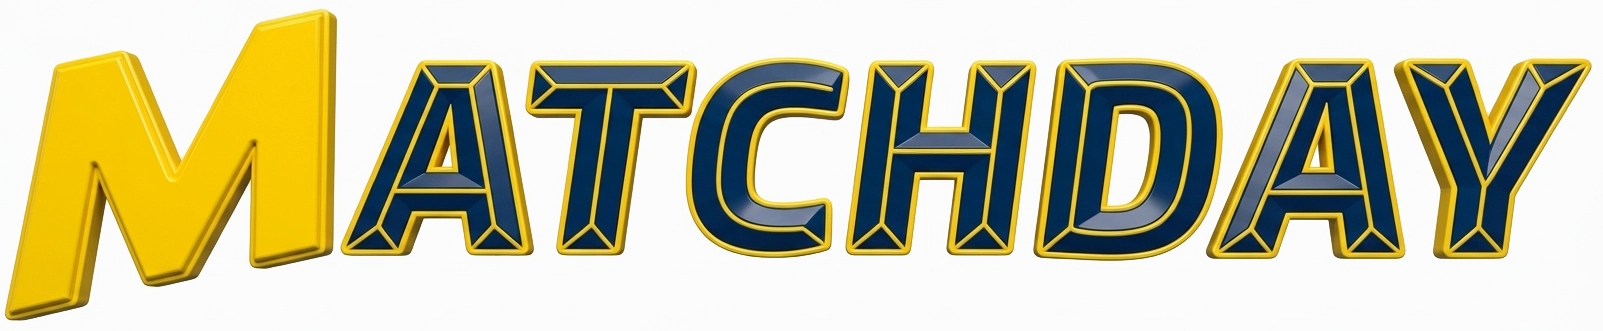
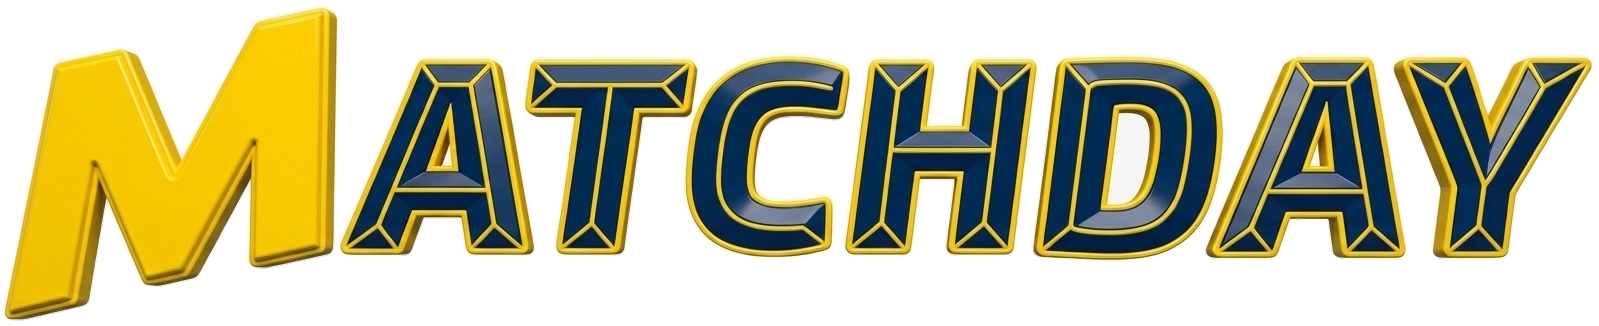
Matchday-Schriftzug: milchigen Hintergrund entfernen (echte Transparenz)
Das WebP hatte keinen brauchbaren Alpha-Kanal: der Hintergrund war ein
einheitliches (246,246,246) mit fester Alpha 99 und dadurch im Poster
als weisse Flaeche sichtbar.

- Hintergrund per Flood-Fill ab den Bildraendern entfernt, damit die hellen
  Silber-/Glanz-Akzente INNERHALB der Buchstaben (A, Y) erhalten bleiben.
- RGB der Kantenfransen mit dem Nachbarton geglaettet und weiche Alpharampe,
  damit keine weissen Saeume entstehen.
- Auf sichtbaren Inhalt zugeschnitten: 1603x331 -> 1599x326.
- Dateiname und Format unveraendert, nur Cache-Buster auf b2 gesetzt.

diff --git a/generator.html b/generator.html
@@ -290,7 +290,7 @@
     <img src="assets/shared/media/Logos%20FLH%20Eq/Logo%20Leder%20Mersch75%20ohne%20Hintergrund.png" alt="Mersch75" class="img-50" loading="lazy">
 </picture>
                             <div class="p-header-matchday">
-    <img src="assets/Matchday%20Font.webp?v=20261002b1" alt="Matchday" class="p-matchday-img">
+    <img src="assets/Matchday%20Font.webp?v=20261002b2" alt="Matchday" class="p-matchday-img">
 </div>
                             <picture>
     <source srcset="assets/shared/media/Logos%20FLH%20Eq/Logo%20Leder%20Mersch75%20ohne%20Hintergrund.avif" type="image/avif">
